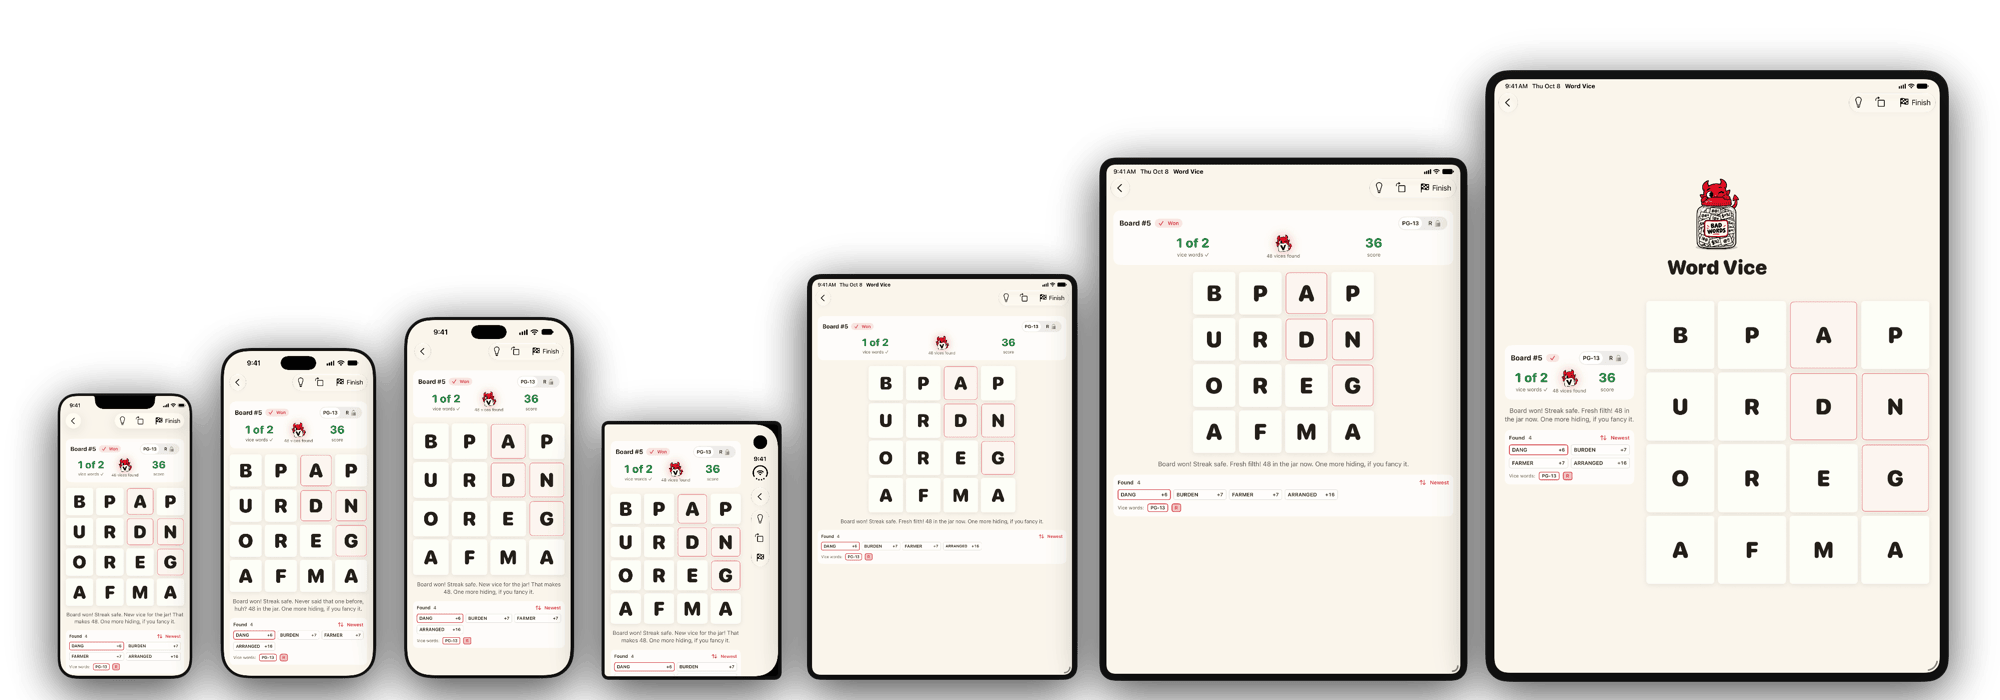
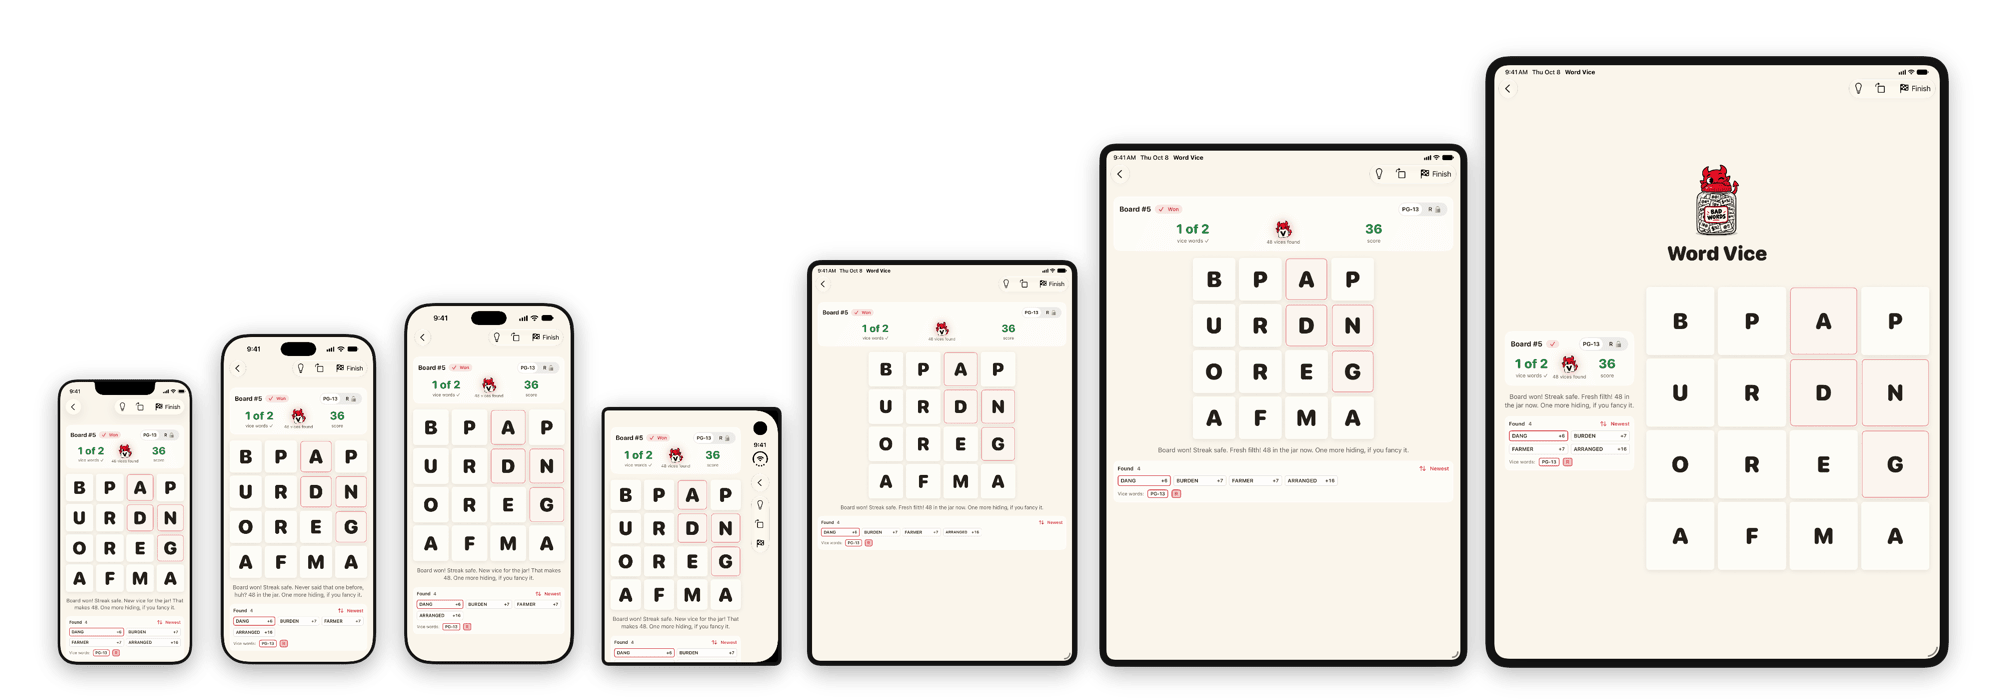
A Duo card, a VoiceOver card, and phone edges on the screenshots
The two notes under How to Misbehave are cards now. The Duo card is two
columns wide with the phone shown shut and propped up like a laptop.
Every screenshot gets a thin charcoal phone edge, and the device lineup
has lighter shadows that are no longer cut off at the bottom.

Changed region(s): [[0.0, 0.06, 0.992, 1.0], [0.837, 0.24, 0.899, 0.39]]

diff --git a/styles.css b/styles.css
@@ -11,6 +11,7 @@
   --muted: #6f5f56;
   --accent: #DC1229;  /* Vice Red */
   --line: #E8D9C0;    /* Sand, the app icon's ground */
+  --case: #4a4441;    /* the charcoal phone edge drawn around each capture */
   --rounded: ui-rounded, "SF Pro Rounded", "Avenir Next", -apple-system,
     BlinkMacSystemFont, "Segoe UI", system-ui, sans-serif;
 }
@@ -190,7 +191,9 @@ a:hover { text-decoration: underline; }
   aspect-ratio: 1320 / 2700;
   object-fit: cover;
   object-position: top;
-  border-radius: 15.2% / 7.4%;
+  padding: 3px;
+  background: var(--case);
+  border-radius: 15.9% / 7.7%;
   box-shadow:
     0 1px 0 rgba(17, 17, 17, 0.16),
     0 2px 5px rgba(17, 17, 17, 0.07),
@@ -253,6 +256,54 @@ p { margin: 0 0 10px; }
 }
 
 .card .glyph { font-size: 22px; line-height: 1; margin-bottom: 8px; }
+.card .glyph svg { display: block; color: var(--accent); }
+
+/* The Duo card is two columns wide where there are two, with a whole folded
+   Duo standing beside the words. */
+.duo-card { display: flex; align-items: center; gap: 20px; }
+.duo-card > div { flex: 1; }
+.duo-card { --duo: 124px; --prop: calc(var(--duo) * 1.12); --bezel: 2px; }
+/* Folded shut: the hinge side is nearly square, the outer side round. */
+.duo-card img {
+  box-sizing: content-box;
+  width: var(--duo); height: auto;
+  padding: var(--bezel);
+  background: var(--case);
+  border-radius: calc(var(--duo) * 0.04) calc(var(--duo) * 0.2) calc(var(--duo) * 0.2) calc(var(--duo) * 0.04);
+  filter: drop-shadow(0 5px 12px rgba(17, 17, 17, 0.16));
+}
+/* The same phone propped up like a laptop: one capture drawn as two halves,
+   the lower one lying flat and widening toward the reader. */
+.duo-propped {
+  width: calc(var(--prop) + 2 * var(--bezel));
+  margin: 0 10px;
+  filter: drop-shadow(0 5px 12px rgba(17, 17, 17, 0.16));
+}
+.duo-propped span {
+  display: block;
+  height: calc(var(--prop) * 0.7106 + var(--bezel));
+  border: var(--bezel) solid var(--case);
+  border-bottom-width: 1px;
+  border-radius: calc(var(--prop) * 0.1) calc(var(--prop) * 0.1) 0 0;
+  background: var(--case) url(images/wordvice-duo-laptop-crush.png) top / 100% auto no-repeat;
+}
+/* The flat half is foreshortened, so its box gives back the height it no
+   longer fills and the pair stays centered. */
+.duo-propped span + span {
+  border-width: 0 var(--bezel) var(--bezel);
+  border-radius: 0 0 calc(var(--prop) * 0.1) calc(var(--prop) * 0.1);
+  background-position: bottom;
+  transform-origin: top;
+  transform: perspective(calc(var(--prop) * 2.9)) rotateX(48deg);
+  margin-bottom: calc(var(--prop) * -0.13);
+}
+@media (min-width: 560px) { .duo-card { grid-column: span 2; } }
+.duo-pair { display: flex; align-items: center; gap: 8px; }
+/* On a phone the words go on top and the two phones stand beneath. */
+@media (max-width: 559px) {
+  .duo-card { flex-direction: column; align-items: stretch; gap: 14px; }
+  .duo-pair { justify-content: center; }
+}
 
 /* Borrowed from the game's found-words list: label left, score right, on a
    tinted row. The joke only works if it looks like real scoring, so the chip
@@ -274,7 +325,6 @@ p { margin: 0 0 10px; }
 
 .score .plus { font-weight: 700; font-size: 13px; color: var(--accent); }
 
-.note { margin: 14px 0 0; font-size: 14px; color: var(--muted); }
 .card h3 { margin: 0 0 4px; font-size: 16px; font-weight: 700; }
 .card p { margin: 0; font-size: 15px; color: var(--muted); }
 
@@ -293,7 +343,9 @@ figure img { width: 100%; border-radius: 10px; }
 .lineup img { border-radius: 0; }
 
 .shots img {
-  border-radius: 15.2% / 7%;
+  padding: 3px;
+  background: var(--case);
+  border-radius: 15.9% / 7.3%;
   box-shadow:
     0 1px 0 rgba(17, 17, 17, 0.14),
     0 2px 5px rgba(17, 17, 17, 0.06),

diff --git a/index.html b/index.html
@@ -127,16 +127,31 @@
           <li>Filthy vocabulary <span class="plus">+8</span></li>
         </ul>
       </div>
+      <div class="card duo-card">
+        <div>
+          <div class="glyph">
+            <svg viewBox="0 0 34 46" width="24" height="32" aria-hidden="true">
+              <path d="M5 2H23a9 9 0 0 1 9 9V35a9 9 0 0 1-9 9H5a3 3 0 0 1-3-3V5a3 3 0 0 1 3-3z" fill="none" stroke="currentColor" stroke-width="2.6"/>
+              <path d="M7.5 5V41" stroke="currentColor" stroke-width="1.4"/>
+              <circle cx="25" cy="10" r="2.8" fill="currentColor"/>
+            </svg>
+          </div>
+          <h3>Got an iPhone Duo?</h3>
+          <p>Word Vice plays shut, open, or propped up, and it knows one extra trick for when the boss walks in. We’ve said too much already.</p>
+        </div>
+        <div class="duo-pair">
+          <img src="images/wordvice-duo-crush.png" width="520" height="757" loading="lazy" decoding="async" alt="Word Vice on a folded iPhone Duo: the daily board with a word swiped across it and the toolbar down the side.">
+          <div class="duo-propped" role="img" aria-label="Word Vice on an iPhone Duo propped up like a laptop: the score on the upright half and the board on the half lying flat.">
+            <span></span><span></span>
+          </div>
+        </div>
+      </div>
+      <div class="card">
+        <div class="glyph">🗣</div>
+        <h3>Works with VoiceOver</h3>
+        <p>Built to be played by ear. If something reads wrong or won’t focus, <a href="mailto:support@wordvice.app">tell me</a> and I’ll fix it.</p>
+      </div>
     </div>
-    <p class="note">
-      <strong>Got an iPhone Duo?</strong> Word Vice plays across both screens,
-      and it knows one extra trick for when the boss walks in. We’ve said too
-      much already.
-    </p>
-    <p class="note">
-      Word Vice is built to work with VoiceOver. If something reads wrong or won’t focus,
-      <a href="mailto:support@wordvice.app">tell me</a> and I’ll fix it.
-    </p>
   </section>
 
   <section>
